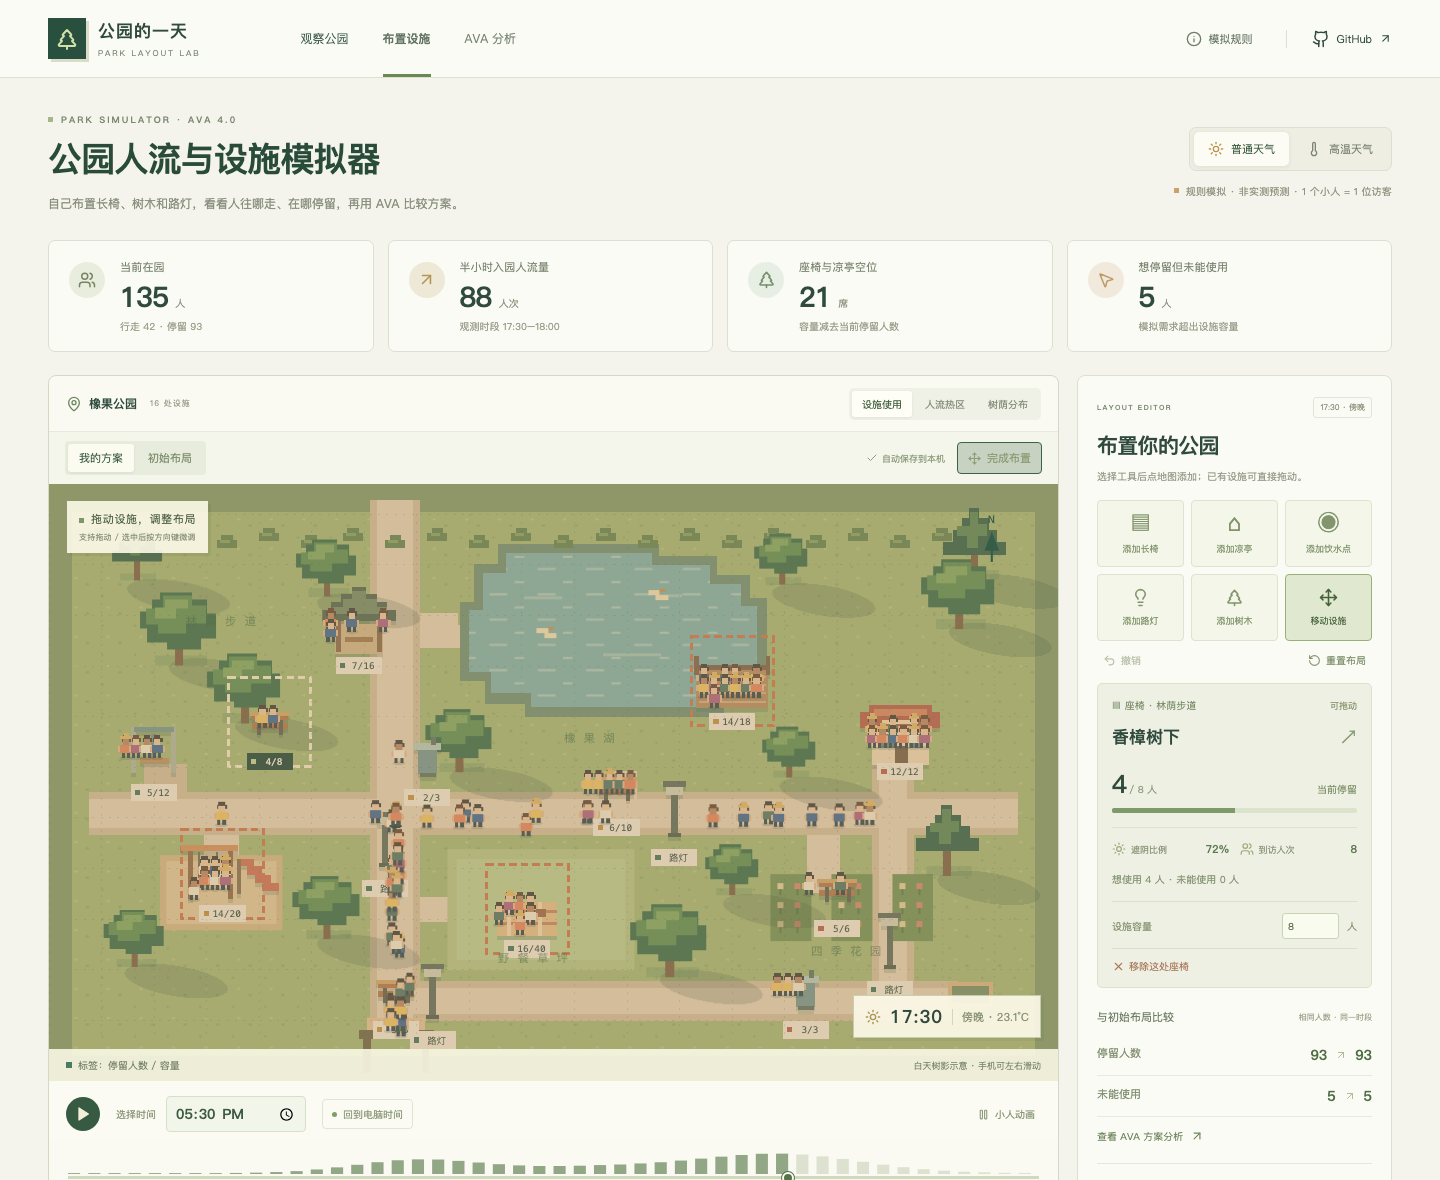
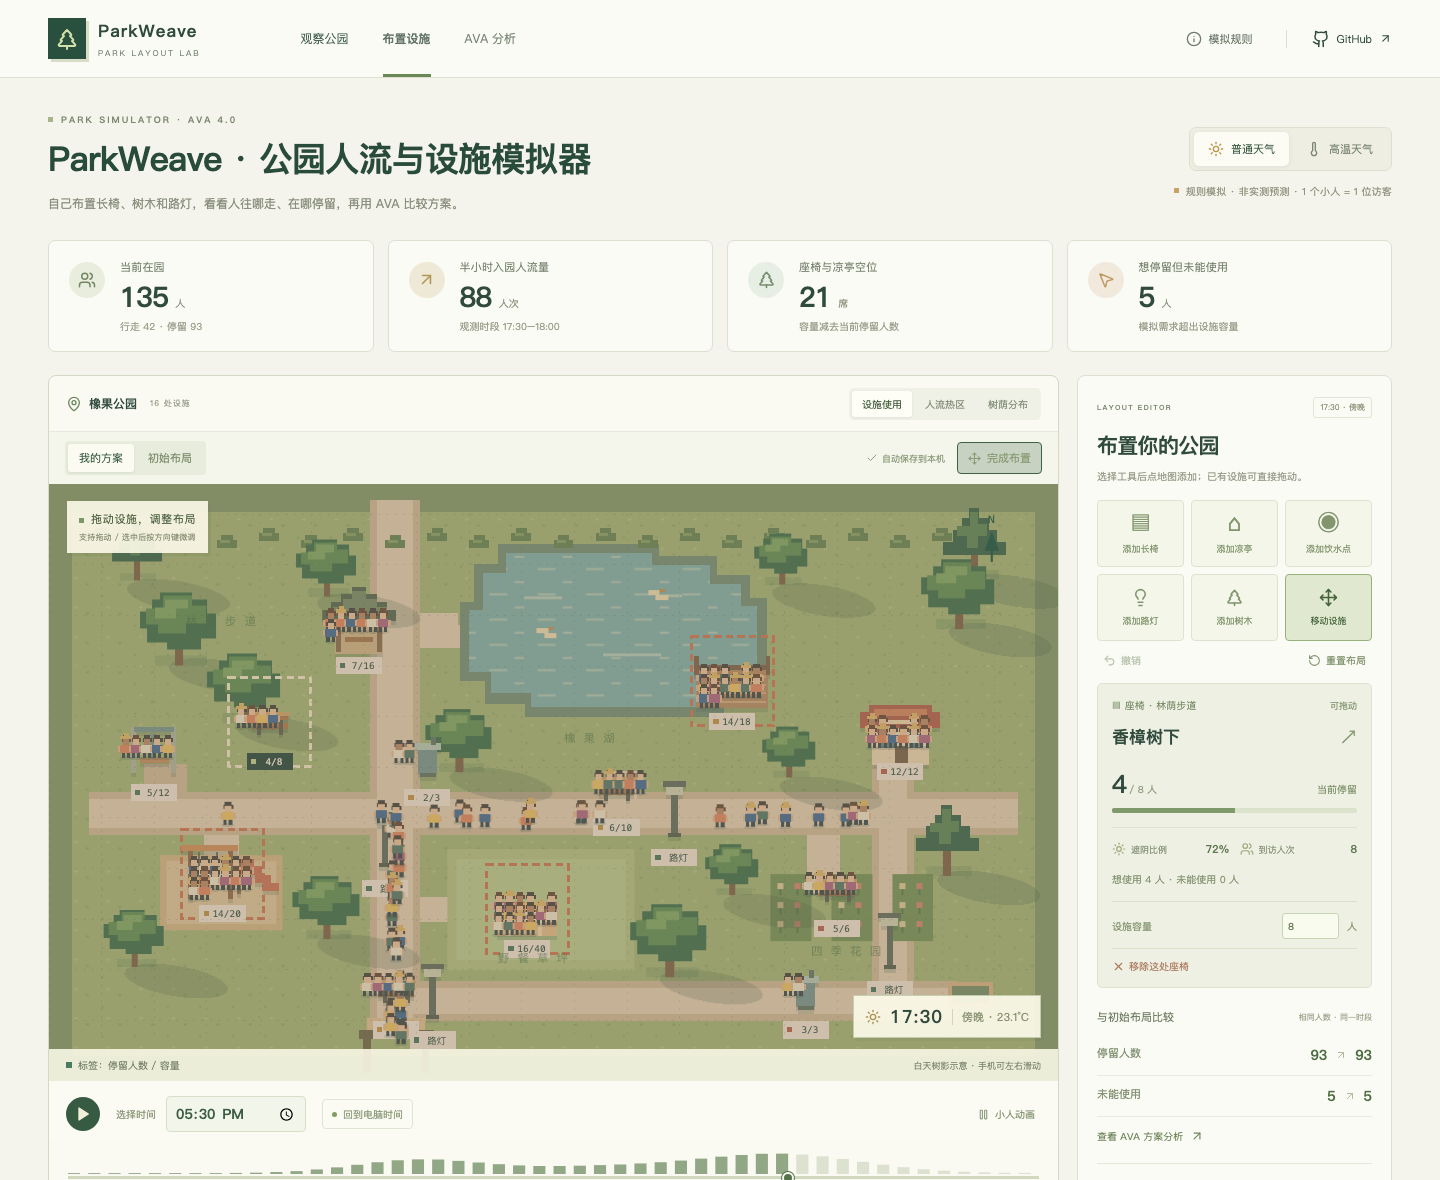
Name project ParkWeave and prepare AVA ecosystem submission

diff --git a/src/App.tsx b/src/App.tsx
@@ -411,7 +411,7 @@ export default function App() {
               <TreePine size={24} />
             </span>
             <span>
-              公园的一天<small>PARK LAYOUT LAB</small>
+              ParkWeave<small>PARK LAYOUT LAB</small>
             </span>
           </a>
           <nav aria-label="主导航">
@@ -453,7 +453,7 @@ export default function App() {
             <div className="eyebrow">
               <span /> PARK SIMULATOR · AVA 4.0
             </div>
-            <h1>公园人流与设施模拟器</h1>
+            <h1>ParkWeave · 公园人流与设施模拟器</h1>
             <p>
               自己布置长椅、树木和路灯，看看人往哪走、在哪停留，再用 AVA
               比较方案。
@@ -1255,7 +1255,7 @@ export default function App() {
       <footer>
         <a className="footer-brand" href="#">
           <TreePine size={17} />
-          公园的一天 · 布局实验室
+          ParkWeave · 公园布局实验室
         </a>
         <span>原创像素场景 · GSAP 动画 · React Bits 交互 · AVA 数据分析</span>
         <div>

diff --git a/tests/browser/park.spec.ts b/tests/browser/park.spec.ts
@@ -44,7 +44,7 @@ test("computer clock, real AVA results, visible moving visitors and day/night li
   await page.goto("/");
   await ready(page);
   await expect(page.getByRole("heading", { level: 1 })).toHaveText(
-    "公园人流与设施模拟器",
+    "ParkWeave · 公园人流与设施模拟器",
   );
   await expect(page.locator(".map-clock strong")).toHaveText("17:30");
   const expected = simulate(facilities, "mild", 17.5);

diff --git a/index.html b/index.html
@@ -8,7 +8,7 @@
       name="description"
       content="自己布置长椅、树木和路灯，观察昼夜人流，再用 AVA 比较当前方案与初始布局。"
     />
-    <title>公园人流与设施模拟器 · 公园的一天</title>
+    <title>ParkWeave · 公园布局与人流模拟器</title>
     <link rel="icon" type="image/svg+xml" href="./favicon.svg" />
   </head>
   <body>

diff --git a/docs/SUBMISSION.md b/docs/SUBMISSION.md
@@ -1,22 +1,31 @@
-# 投稿文案（手动发布至 AVA #1035）
+# ParkWeave 投稿与演示说明
 
-## 🌳 公园的一天 · 公园人流与设施模拟器
+## 🌳 ParkWeave · 公园布局与人流模拟器
 
-我做了一个基于 AVA 4.0 的像素公园布局实验室：自己布置设施，看见人流与昼夜变化，再用数据比较方案。
+[GitHub 源码与运行文档](https://github.com/holly1226/park-day) · [在线体验](https://holly1226.github.io/park-day/?v=parkweave)
 
-进入页面默认跟随电脑时间，也可选择全天任意时间。白天树影移动，夜间路灯亮起；一位模拟访客对应一个小人，沿步道行走或在设施旁停留。可以拖动设施，添加长椅、凉亭、饮水点、树木和路灯，调整容量并保存布局。
+我做了 **ParkWeave**，一个基于 AVA 4.0 的像素公园布局实验室。希望把公共空间里的“人流、停留、设施使用”变成可以亲手调整、观察和比较的过程：**布置设施 → 模拟访客行为 → 用 AVA 分析方案差异。**
 
-**AVA 的实际作用：** 模拟器生成初始与当前布局的记录，AVA source/schema/semantic/query 真实执行。它读取当前方案、时段和天气，计算全园人数与人流、设施到访、空余座位、无法使用的人数、照明覆盖，以及与初始布局的差异。每条分析都显示三步计算说明、SQL 和实际结果表，支持导出。
+- **自己布置公园**：拖动设施，添加长椅、凉亭、饮水点、树木和路灯，调整容量；支持撤销、本机保存及方案导入导出。
+- **看见公园的一天**：默认跟随电脑时间，也可选择全天时段；一个小人对应一位模拟访客，展示行走与停留，树影、明暗和夜间灯光随时间变化。
+- **带着问题比较布局**：哪里还有空位坐？哪些设施更受欢迎？添加树木或路灯后，当前方案与初始布局的使用情况有什么变化？
 
-在线五类预设分析无需密钥。配置本地模型后，可通过 AVA analyze 对当前布局自由提问。场景与访客行为由项目代码模拟，AVA 负责数据分析。全部数据明确标记为规则模拟，不是实际监测或人流预测。
+### AVA 的使用方式
 
-**体验：** https://holly1226.github.io/park-day/
+使用 **`@antv/ava@4.0.4` + 社区 DuckDB-Wasm 引擎**，在浏览器真实执行 `source / schema / semantic / query`：载入初始与当前布局的模拟记录，筛选方案、天气和半小时时段，计算全园人数、设施到访、空余座位、未能使用人数及布局前后差异。地图快照、时间曲线和分析结果均由实际查询结果驱动。
 
-**源码：** https://github.com/holly1226/park-day
+每个分析都能查看**三步计算说明、实际 SQL 和返回数据表**，并导出结果。在线五类预设分析无需密钥；配置本地模型后，可通过 AVA `analyze()` 对当前布局自由提问。
 
-![公园模拟器](https://raw.githubusercontent.com/holly1226/park-day/main/docs/preview-desktop.png)
+目前使用明确标注的**规则模拟数据**：访客行为和像素场景由项目代码实现，AVA 负责数据分析；同一天气、同一时段的两个布局使用相同访客人数，结果用于交互演示与布局探索，不作为真实公园人流预测。
 
-![夜间灯光](https://raw.githubusercontent.com/holly1226/park-day/main/docs/preview-night.png)
+### 效果展示
+
+| 布置设施与人流观察 | 昼夜变化与夜间灯光 |
+| --- | --- |
+| ![ParkWeave 布置与观察](https://raw.githubusercontent.com/holly1226/park-day/main/docs/preview-editor.png) | ![ParkWeave 夜间公园](https://raw.githubusercontent.com/holly1226/park-day/main/docs/preview-night.png) |
+
+可以先把时间调到 **17:30**，添加一张长椅或一棵树，再点 **“我的布置改变了什么？”**，查看 AVA 给出的比较与计算依据。
+
 
 # 90 秒演示
 
@@ -29,7 +38,7 @@
 
 # #1061 报名模板
 
-作品：公园的一天 · 公园人流与设施模拟器
+作品：ParkWeave · 公园布局与人流模拟器
 
 作品评论链接：发布 #1035 评论后填写。
 

diff --git a/README.md b/README.md
@@ -1,4 +1,4 @@
-# 🌳 公园的一天 · 公园人流与设施模拟器
+# 🌳 ParkWeave · 公园布局与人流模拟器
 
 **自己布置长椅、树木和路灯，看看人往哪走、在哪停留，再用 AVA 比较方案。**
 

diff --git a/docs/PRODUCT.md b/docs/PRODUCT.md
@@ -1,4 +1,4 @@
-# 公园人流与设施模拟器 · v2
+# ParkWeave · 公园布局与人流模拟器
 
 类型：交互式软件原型，延续既有像素场景、苔绿与奶油白配色。
 
